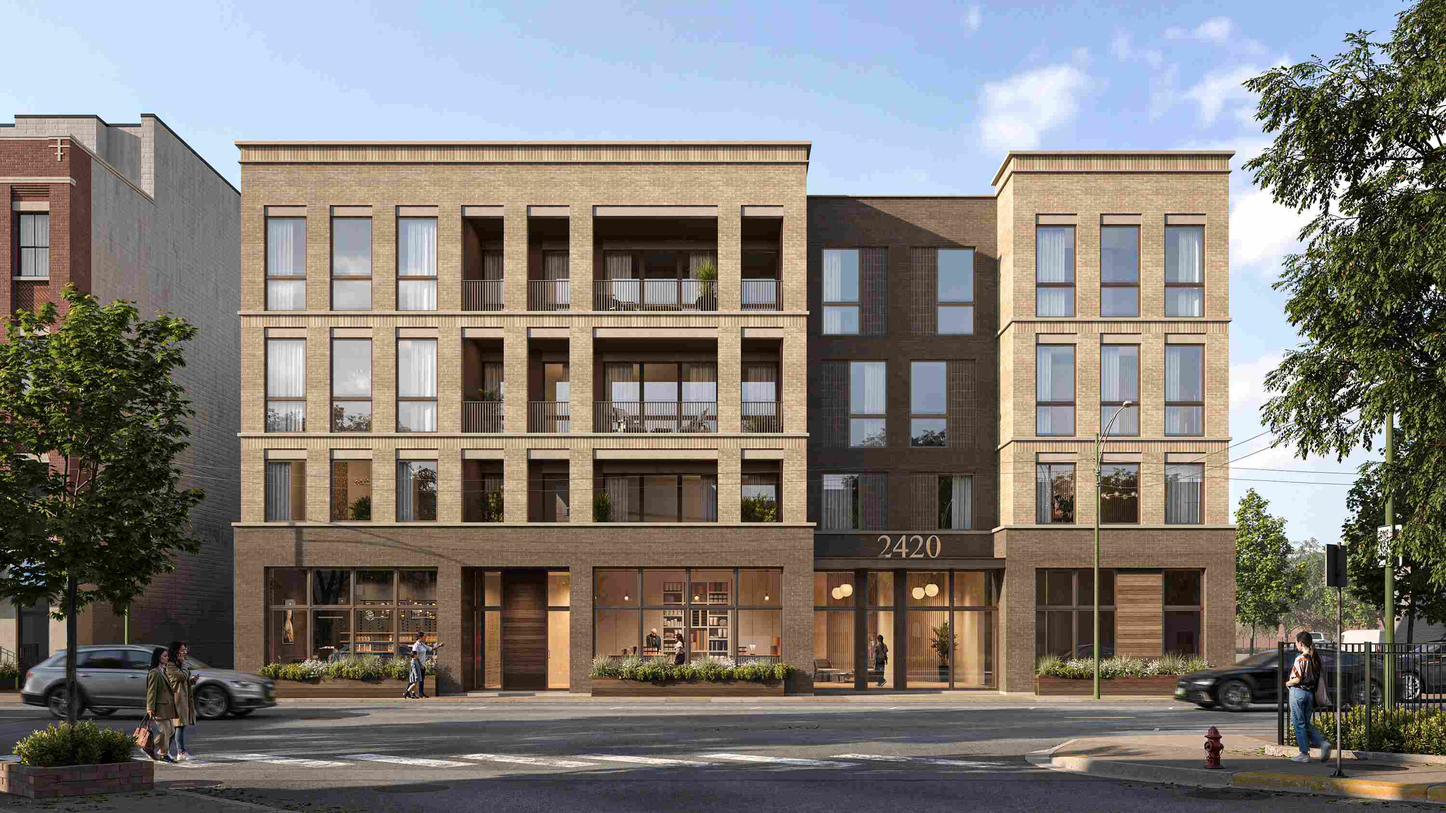
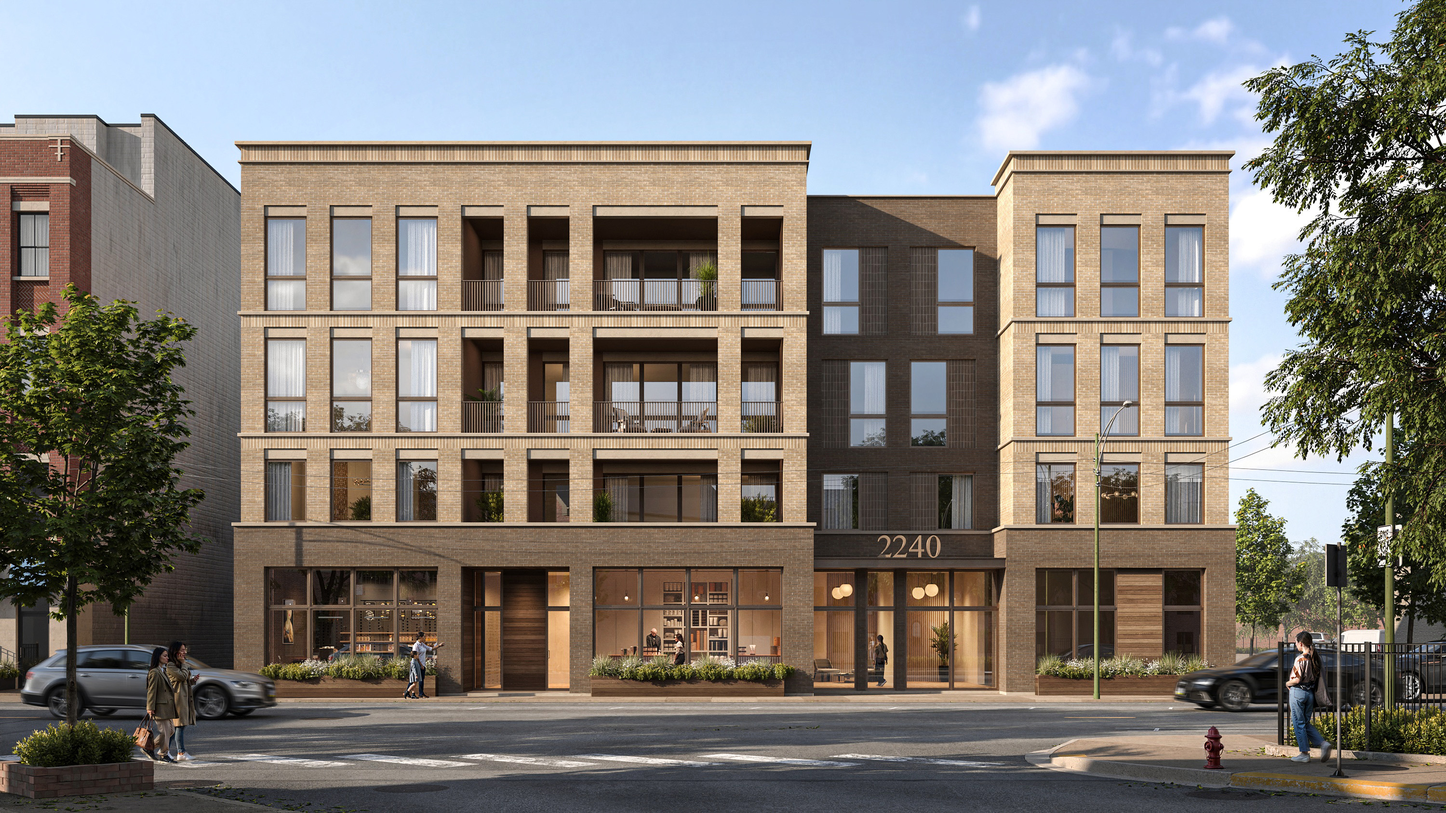
update clybourn image and add the grace property

diff --git a/src/data/propertyRegistry.ts b/src/data/propertyRegistry.ts
@@ -229,6 +229,33 @@ export const propertyRegistry = {
       },
       media: { kind: "single", file: "1933_n_hudson.png" },
     },
+    {
+      slug: "1230-34-w-grace-st",
+      name: "1230-34 W Grace St",
+      address: "1230-34 W Grace St, Chicago, IL",
+      category: "current",
+      published: true,
+      featured: false,
+      statusLabel: "Summer 2027",
+      price: "Coming soon",
+      description: "4 duplexes coming soon.",
+      estimatedDelivery: "Summer 2027",
+      links: {
+        agentName: "Peter Angelo",
+        agentUrl:
+          "https://www.sothebysrealty.com/eng/associate/180-a-1253-4023623/peter-angelo",
+      },
+      dates: { start: "", end: "", sale: "2027" },
+      specs: {
+        beds: "4",
+        baths: "3.5",
+        sqft: "",
+        units: "4",
+        buildingType: "Condo with detached garage",
+        garage: "",
+      },
+      media: { kind: "single", file: "1230-34_w_grace_st.jpg" },
+    },
 
     // ════════════════════════════════════════════════════════════
     // PAST PROJECTS — first 6 pinned, then newest → oldest
